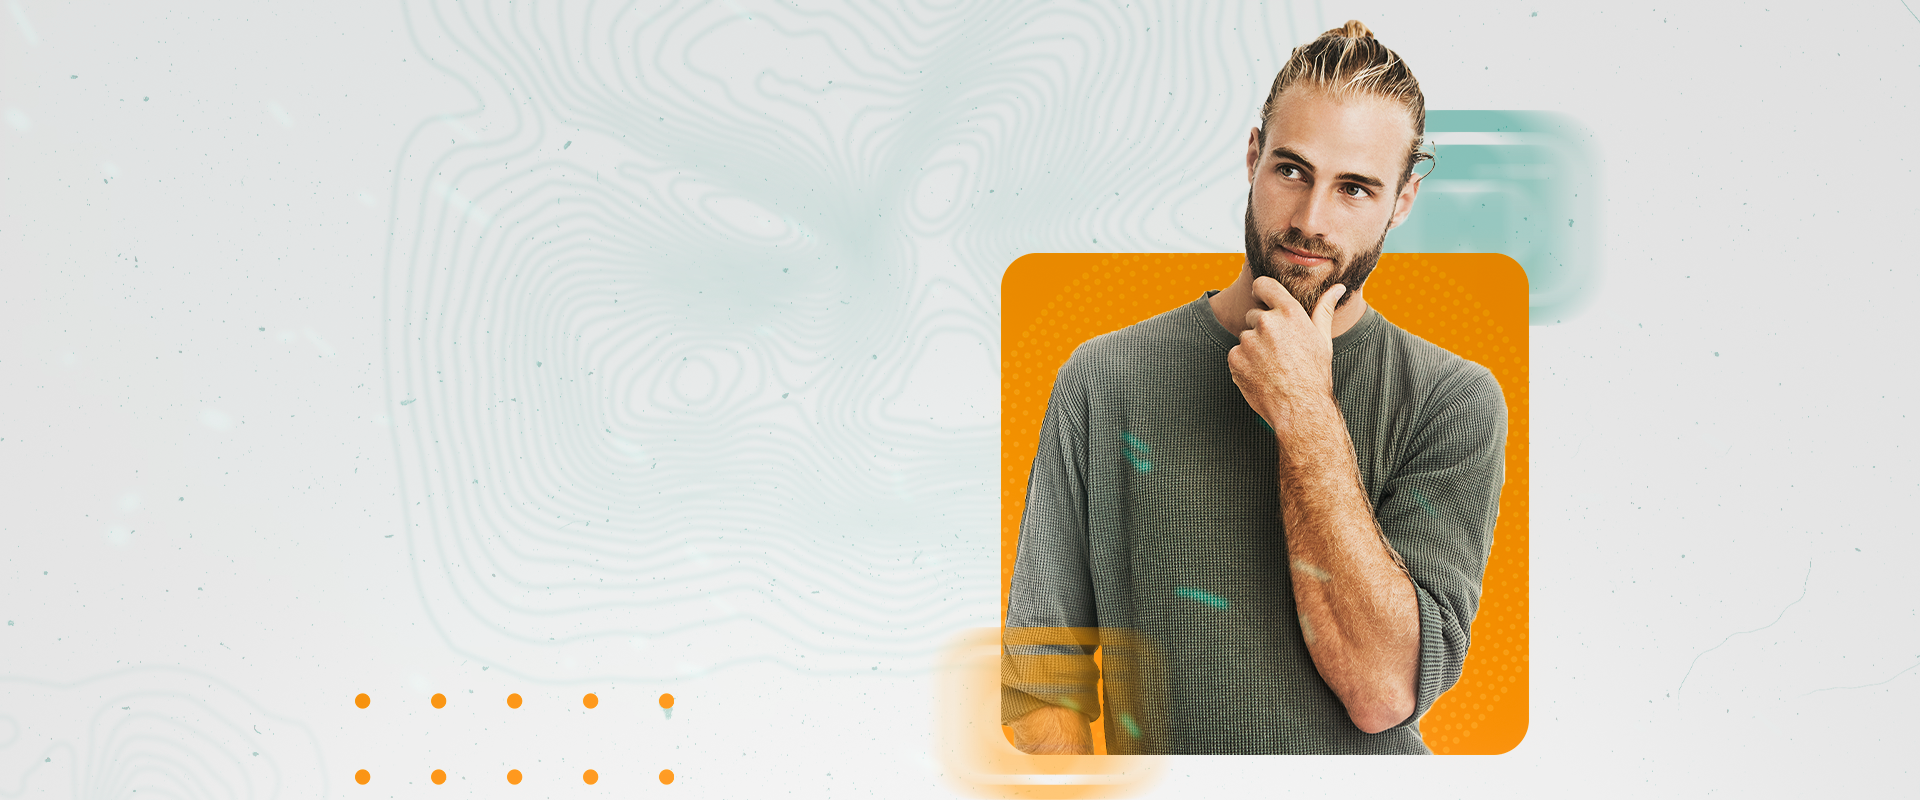
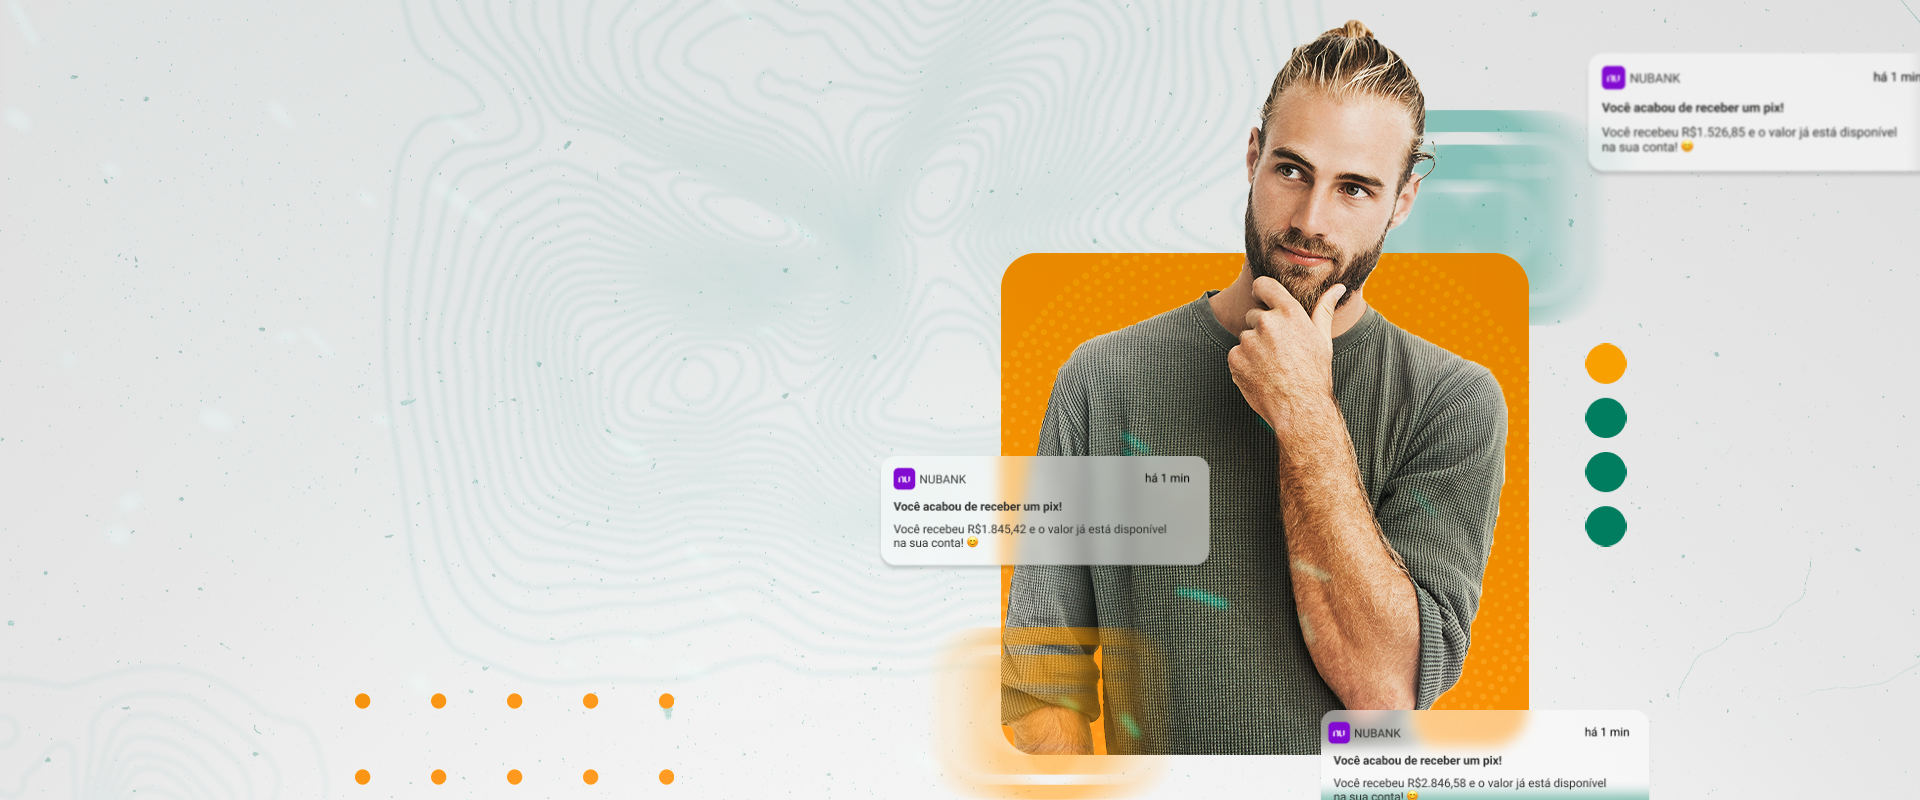
Melhoria

diff --git a/desing/style.css b/desing/style.css
@@ -12,7 +12,7 @@
 body, html {
     font-family: var(--font-family-1);
     overflow-x: hidden;
-    background-color: #0d725a48;
+    background-color: #3f3f3fda;
 }
 
 header {
@@ -64,14 +64,6 @@ header {
 .btn-color {
     background: linear-gradient(94deg, #007C5F 47.03%, #11AA86 105.09%);
     color: white;
-}
-
-#linha-circulo {
-    display: none;
-}
-
-.notify {
-    display: none;
 }
 
 #conteudo-2 {
@@ -419,94 +411,6 @@ header {
         box-shadow: 0 10px 20px rgba(0, 0, 0, 0.2);
     }
     
-    #linha-circulo {
-        display: contents;
-    }
-
-    #linha-circulo img {
-        position: absolute;
-        top: 22.75em;
-        left: 100.25em
-    }
-    
-    .notify {
-        display: block;
-    }
-
-    .notify {
-        background: rgba(255, 255, 255, 0.50);
-        height: 112px;
-        width: 336px;
-        margin-top: 57px;
-        border-radius: 15px;
-        box-shadow: 0px 4px 4px 0px rgba(0, 0, 0, 0.15);
-        filter: blur(0.5px);
-    }
-    
-    .topo {
-        display: flex;
-    }
-    
-    .topo img {
-        margin: 12.22px 4.22px 10.38px 7.64px;
-        width: 22.145px;
-        height: 22px;
-    }
-    
-    .topo p {
-        padding-top: 17px;
-        font-size: 12px;
-        color: rgba(0, 0, 0, 0.75);
-        font-family: var(--font-family-2);
-        font-weight: 400;
-    }
-    
-    .topo p span {
-        color: black;
-        padding-left: 154px;
-    }
-    
-    .notify-conteudo {
-        font-family: var(--font-family-2);
-        font-size: 12px;
-        padding-left: 13px;
-        color: #2F302E;
-    }
-    
-    .notify-conteudo h3 {
-        font-weight: 700;
-        padding-bottom: 12.53px;
-    }
-    
-    .notify-conteudo p {
-        font-weight: 400;
-    }
-    
-    #position-nitify-1, #position-notify-2, #position-notify-3, #position-notify-4 {
-        position: absolute;
-    }
-    
-    #position-nitify-1 {
-        left: 101.38em;
-        top: 0.1em;
-        margin-top: 57px;
-    }
-    
-    #position-notify-2 {
-        top: 425px;
-        left: 883px;
-    }
-    
-    #position-notify-3 {
-        top: 645px;
-        left: 1361px;
-    }
-    
-    #position-notify-4 {
-        top: 1380px;
-        left: 270px;
-    }
-
     #conteudo-text {
         font-size: 2.8em;
         padding-left: 30px;
@@ -577,31 +481,12 @@ header {
 @media only screen and (min-width: 1981px) {
 
     body {
-        margin: 0 7%;
-    }
-
-    .notify {
-        display: none;
-    }
-
-    #linha-circulo {
-        display: none;
+        width: 1920px;
+        margin: 0 auto;
     }
 
     #conteudo-4-imagem {
         display: none;
     }
 
-}
-
-@media only screen and (min-width: 2418px) {
-    body {
-        margin: 0 18%;
-    }
-}
-
-@media only screen and (min-width: 3020px) {
-    body {
-        margin: 0 25%;
-    }
 }

diff --git a/index.html b/index.html
@@ -25,39 +25,6 @@
         </p>
         <a href="" class="btn btn-color btn-animated">Quero fazer parte</a>
       </div>
-      <div id="linha-circulo">
-        <img src="./imagens/linhas.svg" alt="" />
-      </div>
-      <div class="notify notify2" id="position-nitify-1">
-        <div class="topo">
-          <img src="./imagens/Nubank.svg" alt="">
-          <p>NUBANK <span>há 1 min</span></p>
-        </div>
-        <div class="notify-conteudo">
-          <h3>Você acabou de receber um pix!</h3>
-          <p>Você recebeu R$1.526,,85 e o valor já está disponível na sua conta! 😊</p>
-        </div>
-      </div>
-      <div class="notify" id="position-notify-2">
-        <div class="topo">
-          <img src="./imagens/Nubank.svg" alt="">
-          <p>NUBANK <span>há 1 min</span></p>
-        </div>
-        <div class="notify-conteudo">
-          <h3>Você acabou de receber um pix!</h3>
-          <p>Você recebeu R$1.845,42 e o valor já está disponível na sua conta! 😊</p>
-        </div>
-      </div>
-      <div class="notify" id="position-notify-3">
-        <div class="topo">
-          <img src="./imagens/Nubank.svg" alt="">
-          <p>NUBANK <span>há 1 min</span></p>
-        </div>
-        <div class="notify-conteudo">
-          <h3>Você acabou de receber um pix!</h3>
-          <p>Você recebeu R$1.845,42 e o valor já está disponível na sua conta! 😊</p>
-        </div>
-      </div>
     </header>
     <section id="conteudo-2">
       <div id="imagem-conteudo">
@@ -67,16 +34,6 @@
           <source media="(max-width: 1440px)" srcset="./imagens/imagem-2-laptop.png">
           <img src="./imagens/imagem-2.png" alt="">
         </picture>
-      </div>
-      <div class="notify" id="position-notify-4">
-        <div class="topo">
-          <img src="./imagens/Nubank.svg" alt="">
-          <p>NUBANK <span>há 1 min</span></p>
-        </div>
-        <div class="notify-conteudo">
-          <h3>Você acabou de receber um pix!</h3>
-          <p>Você recebeu R$1.526,85 e o valor já está disponível na sua conta! 😊</p>
-        </div>
       </div>
       <div id="conteudo-2-text">
         <div id="conteudo-text" class="hidden">
